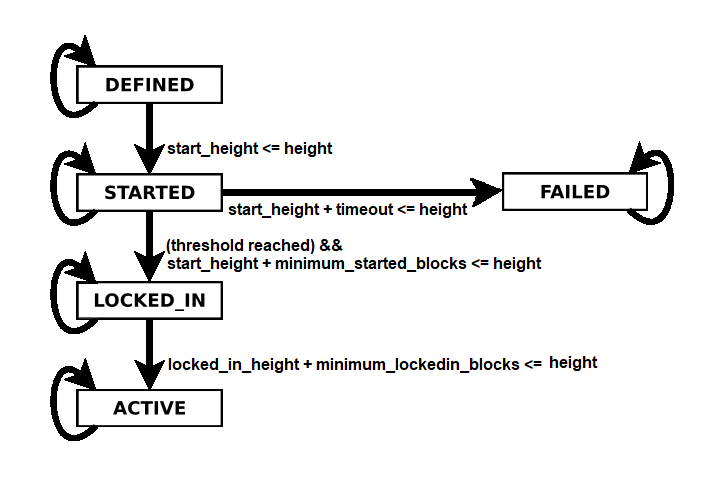
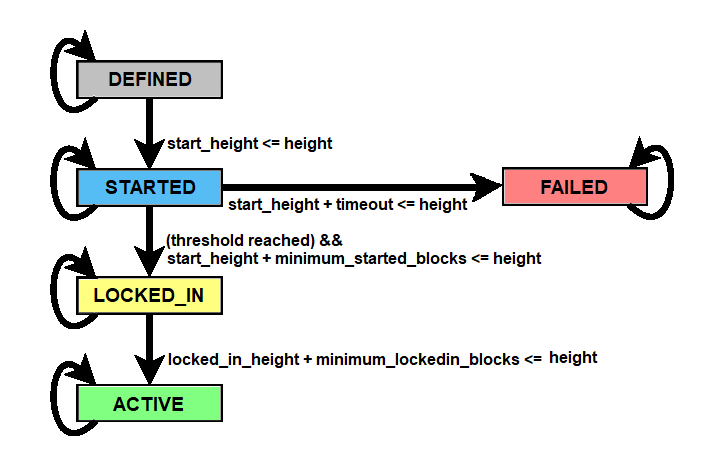
Fixing images and colorizing state diagram. Also adding additional differences with BIP8 and BIP9

diff --git a/bip-trinary-version-bits.md b/bip-trinary-version-bits.md
@@ -82,7 +82,7 @@ The new consensus rules for each soft fork are enforced for each block that has 
 
 ### State transitions
 
-[![img](D:/billysFile/IDEAS/Cryptocurrency/bip-trinary-version-signaling/states.png)](https://github.com/bitcoin/bips/blob/master/bip-0008/states.png)
+![img](states.png)
 
 The genesis block has state DEFINED for each deployment, by definition.
 
@@ -201,7 +201,7 @@ min_threshold + (max_threshold-min_threshold)*fractionOfMaxPassingOpposition;
 
 The threshold calculated above has a linear relationship with the fraction of opposing signals. The following assumes the recommendations for `min_threshold` and `max_threshold` are used. If there is no opposition, only 60% support is needed to lock in the upgrade. If 5% of blocks are signaling opposition, 75% support signaling is required to lock in the upgrade. And if 10% of blocks are signaling opposition, all other 90% of blocks must be signaling support for the upgrade to lock in. This relationship both allows non-contentious upgrades to upgrade relatively easily and quickly while still allowing opposition to the upgrade to make lock in of the upgrade more difficult or fail entirely. 
 
-![img](D:/billysFile/IDEAS/Cryptocurrency/bip-trinary-version-signaling/thresholdChart.png)
+![img](thresholdChart.png)
 
 #### Implementation
 
@@ -241,12 +241,14 @@ TBD
 - Block heights are used for the deployment monotonic clock, rather than median-time-past.
 - Only 15 slots simultaneous upgrades are possible, vs 29 simultaneous upgrades.
 - In the most restrictive case, lock-in happens at 90% as opposed to BIP9's 95%, and lock-in can happen at substantially lower support signaling than that if there is little opposition. 
+- Contains `minimum_started_blocks` and `lockedin_blocks` settings to allow reasonable time between state changes.
 
 ## Contrasted with BIP 8
 
 - Only 15 slots simultaneous upgrades are possible, vs 29 simultaneous upgrades.
 - Lock-in can happen at significantly lower support signaling than BIP8's 90% supermajority requirement if there is little opposition. 
 - No LOT=true option. 
+- A combination of `minimum_started_blocks` and `lockedin_blocks` are used to determine activation height in a relative way instead of the absolute  `minimum_activation_height` setting.
 
 ## Backwards compatibility
 
